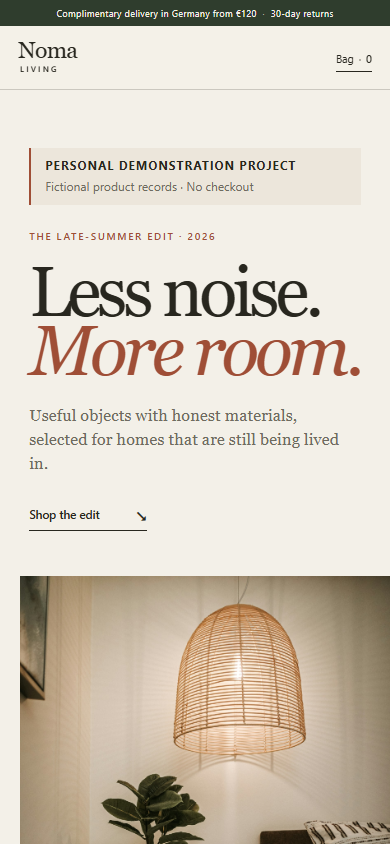
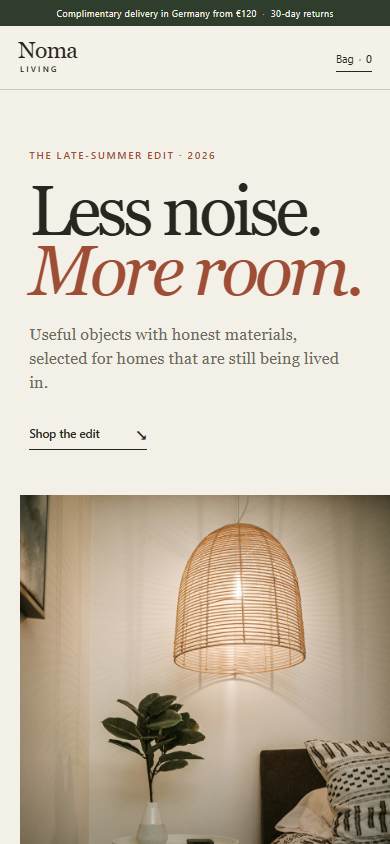
Refine storefront presentation and preserve catalog workflow

diff --git a/index.html b/index.html
@@ -27,10 +27,6 @@
   <main id="main" tabindex="-1">
     <section class="hero" id="top" aria-labelledby="hero-title">
       <div class="hero-copy">
-        <div class="demo-boundary" role="note" aria-label="Project boundary">
-          <strong>Personal Demonstration Project</strong>
-          <span>Fictional product records · No checkout</span>
-        </div>
         <p class="eyebrow">The late-summer edit · 2026</p>
         <h1 id="hero-title">Less noise.<br><em>More room.</em></h1>
         <p class="hero-intro">Useful objects with honest materials, selected for homes that are still being lived in.</p>
@@ -115,7 +111,7 @@
     <div id="cart-lines" class="cart-lines"></div>
     <div class="cart-foot">
       <div class="cart-total"><span>Subtotal</span><b id="cart-total">€0.00</b></div>
-      <p>Shipping and checkout are not available in this demo.</p>
+      <p>Shipping and checkout are not available.</p>
       <button class="disabled-checkout" disabled>Order review ends here</button>
     </div>
   </aside>

diff --git a/README.md b/README.md
@@ -2,8 +2,6 @@
 
 Noma Living is a small, photo-led storefront built around a catalog migration problem: messy source rows should not reach a new shop with duplicate identifiers, invalid prices or unsafe legacy links.
 
-> **Personal Demonstration Project.** All product records are fictional and checkout is intentionally unavailable. This is not a real retailer or client launch.
-
 The live footer links directly to this source repository and its CI history so the storefront can be checked from the same page a portfolio reviewer opens.
 
 ![Noma Living desktop storefront](screenshots/web-rescue-commerce-wide.png)
@@ -23,12 +21,12 @@ The interface is deliberately unlike an admin dashboard. The first desktop view 
 
 ## Evidence
 
-- 6 deterministic domain tests;
-- 3 static public-contract tests and 6 browser checks across the two required viewports;
+- 8 deterministic domain tests;
+- 3 static public-contract tests and 8 browser checks across the two required viewports;
 - syntax checks for application, test and maintenance JavaScript;
 - four catalog rows and four validated local redirects;
 - working search, category, empty-result and bag states;
-- browser regression coverage at 1440×900 and 390×844 for the visible project boundary, consistent no-checkout bag copy, skip-link focus, exact Source/CI URLs, 44×44 CSS-pixel evidence targets and horizontal overflow;
+- browser regression coverage at 1440×900 and 390×844 for the product photographs, consistent no-checkout bag copy, skip-link focus, exact Source/CI URLs, 44×44 CSS-pixel evidence targets and horizontal overflow;
 - responsive captures at 1440×900 and 390×844;
 - no framework, runtime dependency, analytics, payment integration or external write;
 - no runtime network request for fonts or images.
@@ -55,7 +53,7 @@ Node.js 24 LTS is used in CI.
 pnpm run gate
 ```
 
-The gate checks the exact public-file manifest, JavaScript syntax, 9 Node tests and 6 browser checks in pinned Playwright 1.62.1 with its pinned Chromium runtime. It runs at both 1440×900 and 390×844. CI installs that runtime with `pnpm exec playwright install --with-deps chromium` before the gate.
+The gate checks the exact public-file manifest, JavaScript syntax, 11 Node tests and 8 browser checks in pinned Playwright 1.62.1 with its pinned Chromium runtime. It runs at both 1440×900 and 390×844. CI installs that runtime with `pnpm exec playwright install --with-deps chromium` before the gate.
 
 To intentionally refresh the review evidence after a UI change:
 
@@ -69,7 +67,7 @@ Release-facing changes are recorded in [CHANGELOG.md](CHANGELOG.md).
 
 ## Project boundary
 
-This is a personal demonstration project. Noma Living, the products, SKUs, prices, catalog and contact address are fictional. Checkout is intentionally unavailable. It was not commissioned work, paid client work or a real retailer launch.
+The catalog records, SKUs, prices and contact address are sample data. Checkout is unavailable; the bag supports local product selection only.
 
 The four bundled product photographs are real stock photographs used under the Unsplash License. Their creators, source pages, license and retrieval date are listed in [ASSET-LICENSES.md](ASSET-LICENSES.md). The photographers did not create work for Noma Living and do not endorse this fictional brand.
 

diff --git a/ASSET-LICENSES.md b/ASSET-LICENSES.md
@@ -45,4 +45,4 @@ Unsplash states that images under the Unsplash License may be downloaded and use
 
 ## Truthful-use boundary
 
-The photographs are stock references for a self-initiated interface case study. The photographers did not create assets for Noma Living and do not endorse or partner with this fictional brand. The product names, SKUs, prices and availability labels are fictional UI copy.
+The photographs are licensed stock references used in the storefront interface. The photographers did not create assets for Noma Living and do not endorse or partner with this fictional brand. The product names, SKUs, prices and availability labels are fictional UI copy.

diff --git a/CHANGELOG.md b/CHANGELOG.md
@@ -1,5 +1,11 @@
 # Changelog
 
+## 2026-09-25
+
+- Simplified the storefront introduction and kept the unavailable shipping/checkout message in the bag where it affects the workflow.
+- Retained the real licensed product photographs, keyboard navigation, source links and catalog validation rules.
+- Refreshed screenshots and browser checks for the updated introduction.
+
 ## 2026-08-21
 
 - Prevented blocked duplicate catalog rows from replacing an approved SKU's legacy redirect target, and made ambiguous approved targets fail closed.
